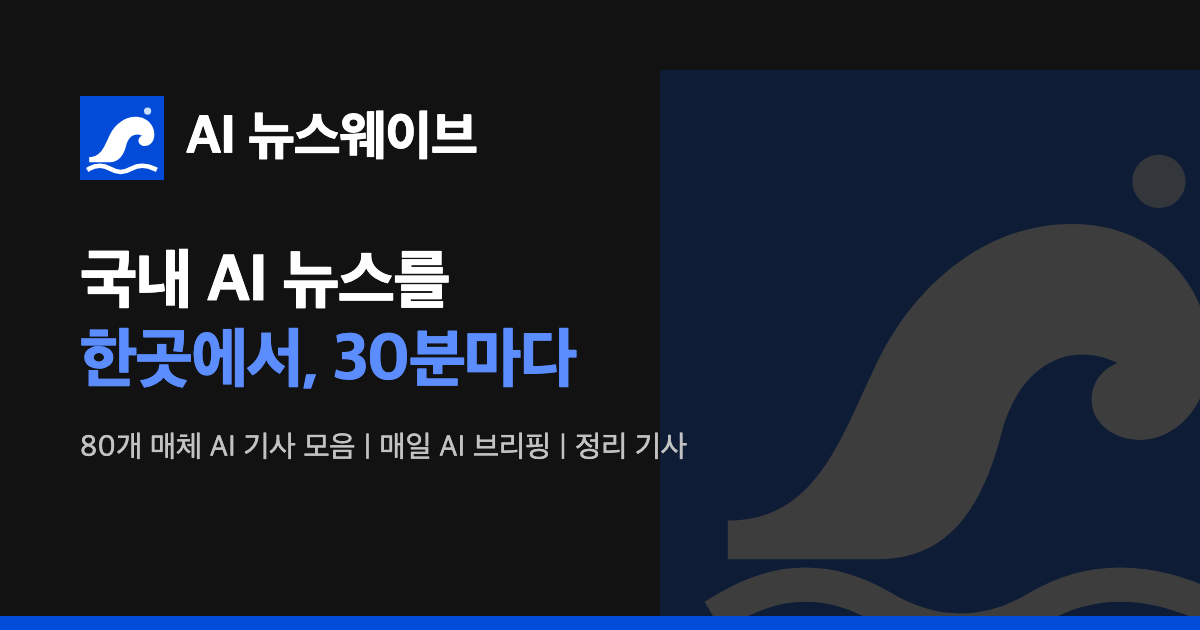
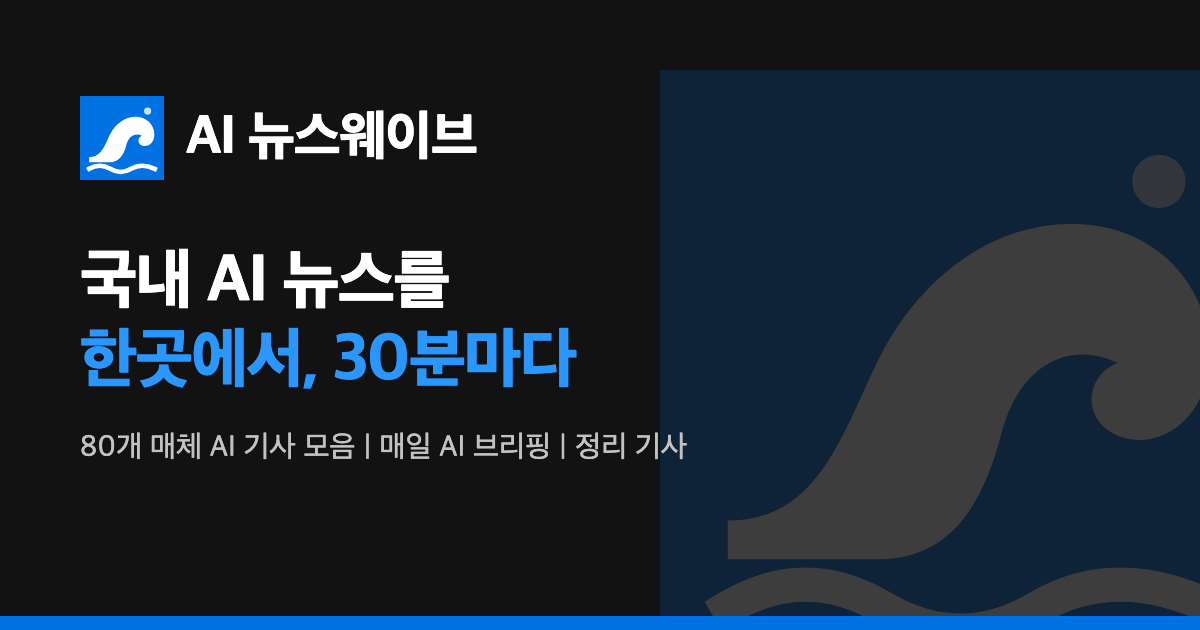
포인트 컬러를 애플 블루(#0071e3)로 변경, 아이콘과 공유 이미지 갱신, 기사 건수와 업데이트 시각 표시 삭제, 하단 저작권 문구 한 줄로, 캐시 v31

Changed region(s): [[0.0, 0.9651, 1.0, 1.0], [0.0617, 0.5127, 0.4933, 0.6333], [0.0617, 0.1508, 0.1542, 0.3016]]

diff --git a/public/style.css b/public/style.css
@@ -7,12 +7,12 @@
   --ink3: #636363;
   --line: #e8e8e8;
   --line-strong: #c2c2c2;
-  --accent: #024ad8;
+  --accent: #0071e3;
   --accent-ink: #ffffff;
-  --accent-soft: #c9e0fc;
-  --accent-press: #0e3191;
-  --signal: #024ad8;
-  --star: #024ad8;
+  --accent-soft: #e8f2fd;
+  --accent-press: #0062c4;
+  --signal: #0071e3;
+  --star: #0071e3;
   --foot-bg: #1a1a1a;
   --foot-ink: #c2c2c2;
   --radius: 0;
@@ -27,16 +27,16 @@
 @media (prefers-color-scheme: dark) {
   :root:not([data-theme="light"]) {
     --bg: #121212; --surface: #1a1a1a; --ink: #ffffff; --ink2: #c2c2c2; --ink3: #8e8e8e;
-    --line: #292929; --line-strong: #3d3d3d; --accent: #296ef9; --accent-ink: #ffffff; --accent-soft: #0e3191; --accent-press: #024ad8; --star: #296ef9;
-    --signal: #296ef9; --foot-bg: #000000; --foot-ink: #8e8e8e;
+    --line: #292929; --line-strong: #3d3d3d; --accent: #2997ff; --accent-ink: #ffffff; --accent-soft: #0b2a4a; --accent-press: #0071e3; --star: #2997ff;
+    --signal: #2997ff; --foot-bg: #000000; --foot-ink: #8e8e8e;
     --tag-bg: 40% 22%; --tag-fg: 90% 80%; --ph-a: 35% 19%; --ph-b: 40% 26%; --ph-fg: 80% 76%;
     color-scheme: dark;
   }
 }
 :root[data-theme="dark"] {
   --bg: #121212; --surface: #1a1a1a; --ink: #ffffff; --ink2: #c2c2c2; --ink3: #8e8e8e;
-  --line: #292929; --line-strong: #3d3d3d; --accent: #296ef9; --accent-ink: #ffffff; --accent-soft: #0e3191; --accent-press: #024ad8; --star: #296ef9;
-  --signal: #296ef9; --foot-bg: #000000; --foot-ink: #8e8e8e;
+  --line: #292929; --line-strong: #3d3d3d; --accent: #2997ff; --accent-ink: #ffffff; --accent-soft: #0b2a4a; --accent-press: #0071e3; --star: #2997ff;
+  --signal: #2997ff; --foot-bg: #000000; --foot-ink: #8e8e8e;
   --tag-bg: 40% 22%; --tag-fg: 90% 80%; --ph-a: 35% 19%; --ph-b: 40% 26%; --ph-fg: 80% 76%;
   color-scheme: dark;
 }

diff --git a/public/page.css b/public/page.css
@@ -1,6 +1,6 @@
 /* 소개, 개인정보처리방침, 문의 등 정적 안내 페이지 */
-:root { --bg: #f7f7f7; --surface: #fff; --ink: #1a1a1a; --ink2: #3d3d3d; --ink3: #636363; --line: #e8e8e8; --accent: #024ad8; color-scheme: light; }
-@media (prefers-color-scheme: dark) { :root { --bg: #121212; --surface: #1a1a1a; --ink: #fff; --ink2: #c2c2c2; --ink3: #8e8e8e; --line: #292929; --accent: #296ef9; color-scheme: dark; } }
+:root { --bg: #f7f7f7; --surface: #fff; --ink: #1a1a1a; --ink2: #3d3d3d; --ink3: #636363; --line: #e8e8e8; --accent: #0071e3; color-scheme: light; }
+@media (prefers-color-scheme: dark) { :root { --bg: #121212; --surface: #1a1a1a; --ink: #fff; --ink2: #c2c2c2; --ink3: #8e8e8e; --line: #292929; --accent: #2997ff; color-scheme: dark; } }
 * { box-sizing: border-box; }
 body { margin: 0; background: var(--bg); color: var(--ink); font-family: Inter, Pretendard, "Apple SD Gothic Neo", "Noto Sans KR", "Malgun Gothic", system-ui, sans-serif; line-height: 1.7; }
 .top { border-bottom: 1px solid var(--line); background: var(--bg); }

diff --git a/public/consent.js b/public/consent.js
@@ -43,9 +43,9 @@
     css.textContent =
       '#consentBar{position:fixed;left:0;right:0;bottom:0;z-index:50;display:flex;flex-wrap:wrap;align-items:center;gap:8px 16px;justify-content:center;' +
       'padding:10px 16px calc(10px + env(safe-area-inset-bottom));background:#1a1a1a;color:#fff;font:13px/1.5 Inter,Pretendard,"Apple SD Gothic Neo",system-ui,sans-serif;box-shadow:0 -1px 0 rgba(255,255,255,.12)}' +
-      '#consentBar p{margin:0;color:#e8e8e8}#consentBar a{color:#9ec2ff}#consentBar div{display:flex;gap:6px}' +
+      '#consentBar p{margin:0;color:#e8e8e8}#consentBar a{color:#7cb9ff}#consentBar div{display:flex;gap:6px}' +
       '#consentBar button{height:34px;padding:0 14px;border:1px solid #636363;background:transparent;color:#fff;font:inherit;cursor:pointer}' +
-      '#consentBar button.ok{background:#296ef9;border-color:#296ef9;font-weight:600}';
+      '#consentBar button.ok{background:#2997ff;border-color:#2997ff;font-weight:600}';
     document.head.appendChild(css);
     document.body.appendChild(bar);
   }

diff --git a/public/index.html b/public/index.html
@@ -67,8 +67,6 @@
   <button id="btnSaved" class="chip" type="button" aria-pressed="false">북마크 <b id="savedCount">0</b></button>
   <a class="chip linkchip" href="recap/">AI 브리핑과 정리 기사</a>
   <span class="grow"></span>
-  <span id="count" class="muted"></span>
-  <span id="updated" class="muted"></span>
 </div>
 
 <div class="wrap listwrap">
@@ -79,8 +77,7 @@
   <div class="more-wrap"><button id="more" class="more" hidden>기사 더 보기</button></div>
 </div>
 <footer class="foot">
-  기사 제목과 요약만 보여 드리며, 본문은 각 언론사 원문 페이지에서 확인하세요.<br>
-  기사의 저작권은 각 언론사에 있습니다.<br>
+  기사 저작권은 각 언론사에 있으며, 원문은 각 언론사에서 확인하세요.<br>
   <nav class="foot-links"><a href="recap/">정리 기사</a><a href="about.html">소개</a><a href="privacy.html">개인정보처리방침</a><a href="contact.html">문의</a></nav>
 </footer>
 

diff --git a/public/app.js b/public/app.js
@@ -80,7 +80,6 @@
     renderHot(list);
     renderBrief();
     const part = list.slice(0, state.shown);
-    $('#count').textContent = list.length ? `${state.full ? '' : '최근 48시간 '}기사 ${list.length}건` : '';
     $('#list').innerHTML = part.length
       ? part.map(card).join('')
       : `<div class="empty">${state.saved ? '저장한 기사가 없습니다.<br>기사 카드의 별을 눌러 북마크해 보세요.' : '조건에 맞는 기사가 없습니다.'}</div>`;
@@ -379,7 +378,6 @@
     queueMicrotask(route);
     state.sources = data.sources || [];
     state.updatedAt = data.updatedAt;
-    $('#updated').textContent = data.updatedAt ? ago(data.updatedAt) + ' 업데이트' : '';
     if (state.all.some((a) => a.sample)) {
       const n = $('#notice');
       n.hidden = false;

diff --git a/public/sw.js b/public/sw.js
@@ -1,4 +1,4 @@
-const CACHE = 'ainewswave-v30';
+const CACHE = 'ainewswave-v31';
 const SHELL = ['./', 'index.html', 'style.css', 'app.js', 'manifest.webmanifest', 'icon.svg', 'consent.js'];
 
 self.addEventListener('install', (e) => {

diff --git a/CLAUDE.md b/CLAUDE.md
@@ -76,7 +76,7 @@
 - 카드를 누르면 우리 사이트의 상세 화면(`#a/기사id`)이 열립니다. 제목, 매체, 발행 시각, 썸네일, RSS 요약만 보여 주고, 오렌지 "원문 보기" 버튼으로 언론사 원문을 새 탭에서 엽니다. 기사 전문이나 전문을 바꿔 쓴 글은 싣지 않습니다(2차적 저작물 침해 위험).
 - 상세 화면 아래에는 제목 두 글자 단위 겹침 비율 0.45 이상인 "같은 소식, 다른 매체" 기사(최대 8건)와 같은 주제 최신 기사(6건)를 붙입니다. 뒤로 가기는 목록에서 들어온 경우 브라우저 뒤로 가기로 스크롤 위치까지 복원합니다.
 - 썸네일은 핫링크입니다. `media:content` 또는 `media:thumbnail`, `enclosure`, 요약 안의 첫 `img` 순서로 찾고 http 는 https 로 승격합니다. `referrerpolicy="no-referrer"` 를 쓰고, 로드에 실패하면 주제 색 블록으로 바꿉니다.
-- 화면 하단에 저작권이 각 언론사에 있다는 안내를 고정해 둡니다.
+- 화면 하단에 "기사 저작권은 각 언론사에 있으며, 원문은 각 언론사에서 확인하세요." 한 줄을 둡니다(법적 필수는 아니지만 유지).
 
 ## 화면 (현재 구현)
 
@@ -96,7 +96,7 @@
 - 2026-10-06 이용 제한 매체 정리: 정리 기사 출처에서 제한 매체를 빼고, 남은 매체 보도만으로 9건과 브리핑을 다시 썼습니다. 제한 매체를 빼면 출처가 1곳만 남는 카카오모빌리티 건은 삭제했습니다.
 - 쓰는 원칙: 한 매체의 문장 구성을 따라가지 않고 여러 보도에서 확인된 사실만 새 문장으로 씁니다. 매체마다 수치가 다르면 함께 적습니다. 첫 5건(2026-10-06)은 Claude 가 RSS 요약을 근거로 썼으므로 운영자가 검수합니다.
 
-디자인은 HP 디자인 문서(`~/Downloads/DESIGN-hp.md`)의 색과 타이포를 따르되 모서리는 모두 직각(`border-radius: 0`)으로 둡니다. 바탕 `#f7f7f7`, 흰 카드, 잉크 `#1a1a1a`, 1px 헤어라인 `#e8e8e8` 입니다. 포인트는 HP 일렉트릭 블루 `#024ad8` 하나로, 선택된 탭, 기사 더 보기, 원문 보기 버튼, 북마크, 로고에 쓰고 누름 상태는 `#0e3191` 입니다. 다크 모드 포인트는 `#296ef9` 입니다. 푸터는 짙은 잉크 띠입니다. 글꼴은 Inter(한글은 Pretendard 또는 시스템 글꼴)이고, 주제 라벨은 주제 색 네모 점과 작은 글자입니다. 이전에 Mastercard, Cursor 디자인을 차례로 적용했다가 HP 로 바꿨습니다.
+디자인은 HP 디자인 문서(`~/Downloads/DESIGN-hp.md`)의 색과 타이포를 따르되 모서리는 모두 직각(`border-radius: 0`)으로 둡니다. 바탕 `#f7f7f7`, 흰 카드, 잉크 `#1a1a1a`, 1px 헤어라인 `#e8e8e8` 입니다. 포인트는 애플 블루 `#0071e3` 하나로(2026-10-06 HP 블루에서 변경), 선택된 탭, 버튼, 북마크, 로고에 쓰고 누름 상태는 `#0062c4` 입니다. 다크 모드 포인트는 `#2997ff` 입니다. 푸터는 짙은 잉크 띠입니다. 글꼴은 Inter(한글은 Pretendard 또는 시스템 글꼴)이고, 주제 라벨은 주제 색 네모 점과 작은 글자입니다. 이전에 Mastercard, Cursor 디자인을 차례로 적용했다가 HP 로 바꿨습니다.
 
 레이아웃은 `.wrap` 을 최대 1120px 폭으로 가운데 정렬하고 세 구간으로 나눕니다.
 
@@ -109,13 +109,13 @@
 - 주제 색상은 `.card[data-cat=...]` 가 색상값 `--h` 하나만 바꾸고 밝기는 `--tag-bg`, `--tag-fg`, `--ph-a`, `--ph-b`, `--ph-fg` 토큰이 테마별로 정합니다. 주제를 추가하면 `--h` 한 줄만 더하면 됩니다.
 - 상단 탭은 키워드 순위입니다. `scripts/keywords.mjs` 의 후보 키워드(같은 대상 표기는 하나로 묶음)별로 언급된 기사 수를 수집 때마다 날짜별로 세어 `public/data/keywords.json` 에 남기고, 최근 30일 합계 상위 30개를 `articles.json` 의 `keywords` 로 내보냅니다. 탭에는 상위 5개와 "키워드 전체 30" 버튼을 두고, 버튼을 누르면 시트(`#kwSheet`)에서 30개 중 여러 개를 고를 수 있습니다. 여러 개를 고르면 하나라도 언급된 기사를 보여 줍니다(OR). 기사는 14일만 보관하므로 그보다 오래된 날짜는 이 기록으로 이어 갑니다(Actions 가 직전 배포본을 받아 누적). 탭 옆 번호가 순위이고, 탭 아래에 "상단 탭은 최근 N일 AI 기사에서 많이 언급된 키워드 순위" 라고 표시합니다. 기사마다 해당 키워드 목록 `kw` 가 붙고 탭은 이것으로 거릅니다. 주제(category)는 카드 라벨에만 씁니다.
 - 뉴스웨이브 정리 기사는 `points` 3줄 핵심 요약을 본문 위에 보여 줍니다.
-- 기능은 최신순 피드, 키워드 탭(전체, 상위 5, 키워드 전체), 매체 선택(바텀시트 다중 선택), 검색, 북마크, 다크 모드, PWA 입니다. 도구 줄 오른쪽에 현재 조건의 기사 건수와 갱신 시각을 보여 줍니다.
+- 기능은 최신순 피드, 키워드 탭(전체, 상위 5, 키워드 전체), 매체 선택(바텀시트 다중 선택), 검색, 북마크, 다크 모드, PWA 입니다. 도구 줄의 기사 건수와 갱신 시각 표시는 2026-10-06 뺐습니다.
 - 검색창은 960px 미만에서는 버튼으로 토글하고 기본은 숨김, 960px 이상에서는 항상 열려 있습니다.
 - 검색은 제목, 요약, 매체명을 대상으로 공백으로 끊은 모든 단어를 포함하는 기사만 남기고 150ms 디바운스를 둡니다.
 - 한 번에 30건을 그리고 "기사 더 보기" 로 30건씩 늘립니다. 주제, 매체, 검색어가 바뀌면 다시 30건으로 돌아갑니다.
 - 북마크는 `localStorage` 의 `bm` 키에 기사 스냅샷을 저장하므로 원본이 보관 기간을 넘겨 사라져도 남습니다.
 - 다크 모드는 기기 설정을 따르고 버튼으로 바꾸면 `localStorage` 의 `theme` 키에 고정됩니다. 색 토큰은 `:root`, `@media (prefers-color-scheme: dark)` 안의 `:root:not([data-theme="light"])`, `:root[data-theme="dark"]` 세 곳에 같은 값을 둡니다. 새 토큰을 추가할 때 세 곳을 함께 고쳐야 합니다.
-- PWA 는 `sw.js` 의 캐시 이름(`ainewswave-v30`)을 씁니다. 기사 데이터는 네트워크 우선에 오프라인이면 마지막 저장본, 화면 파일은 캐시 우선에 뒤에서 갱신합니다. 화면 파일을 고쳤는데 반영이 안 보이면 캐시 이름의 숫자를 올립니다.
+- PWA 는 `sw.js` 의 캐시 이름(`ainewswave-v31`)을 씁니다. 기사 데이터는 네트워크 우선에 오프라인이면 마지막 저장본, 화면 파일은 캐시 우선에 뒤에서 갱신합니다. 화면 파일을 고쳤는데 반영이 안 보이면 캐시 이름의 숫자를 올립니다.
 - 화면을 다시 열었을 때 데이터가 20분보다 오래되었으면 자동으로 다시 불러옵니다.
 - `localStorage` 접근은 모두 try/catch 로 감싸 저장소가 막힌 환경에서도 화면이 동작합니다.
 
@@ -172,6 +172,8 @@
 - `README.md`, `CLAUDE.md`, `docs/` 아래 문서는 저장소에 속하므로 저장소 안에 그대로 둡니다.
 
 ## 남은 일
+
+- 로그인(북마크 동기화 등)은 애드센스 승인 뒤에 검토. 붙이면 개인정보처리방침 수정 필요.
 
 - 미확보 19곳을 살릴 방법 검토. 머니투데이는 러너에서 접속이 안 되는 문제를 어떻게 우회할지 결정이 필요합니다.
 - RSS 약관을 확인하지 못한 10곳(docs/rss-terms.md 의 E)은 필요할 때 브라우저로 다시 확인.
